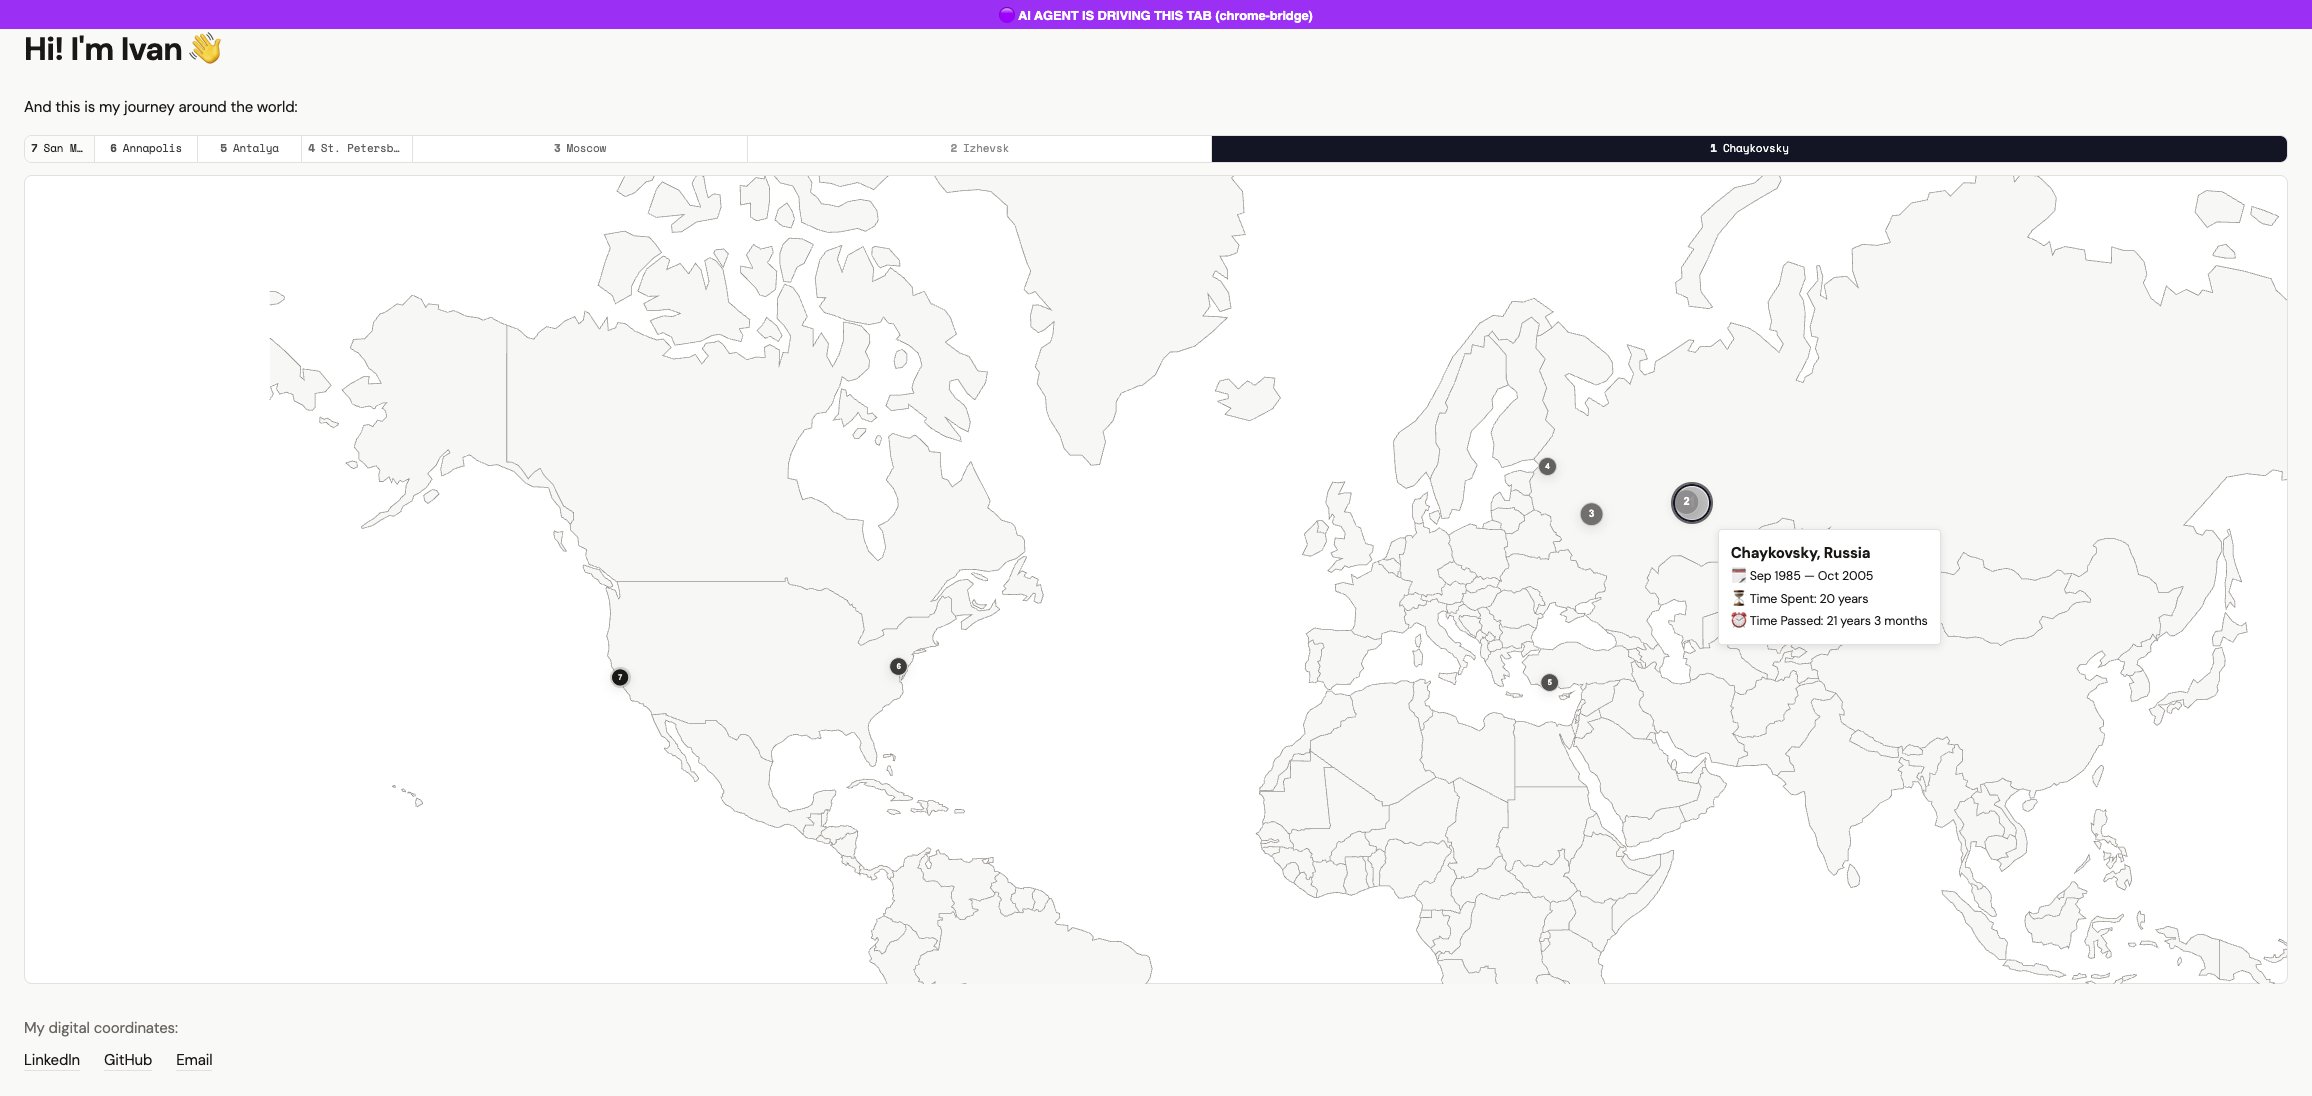
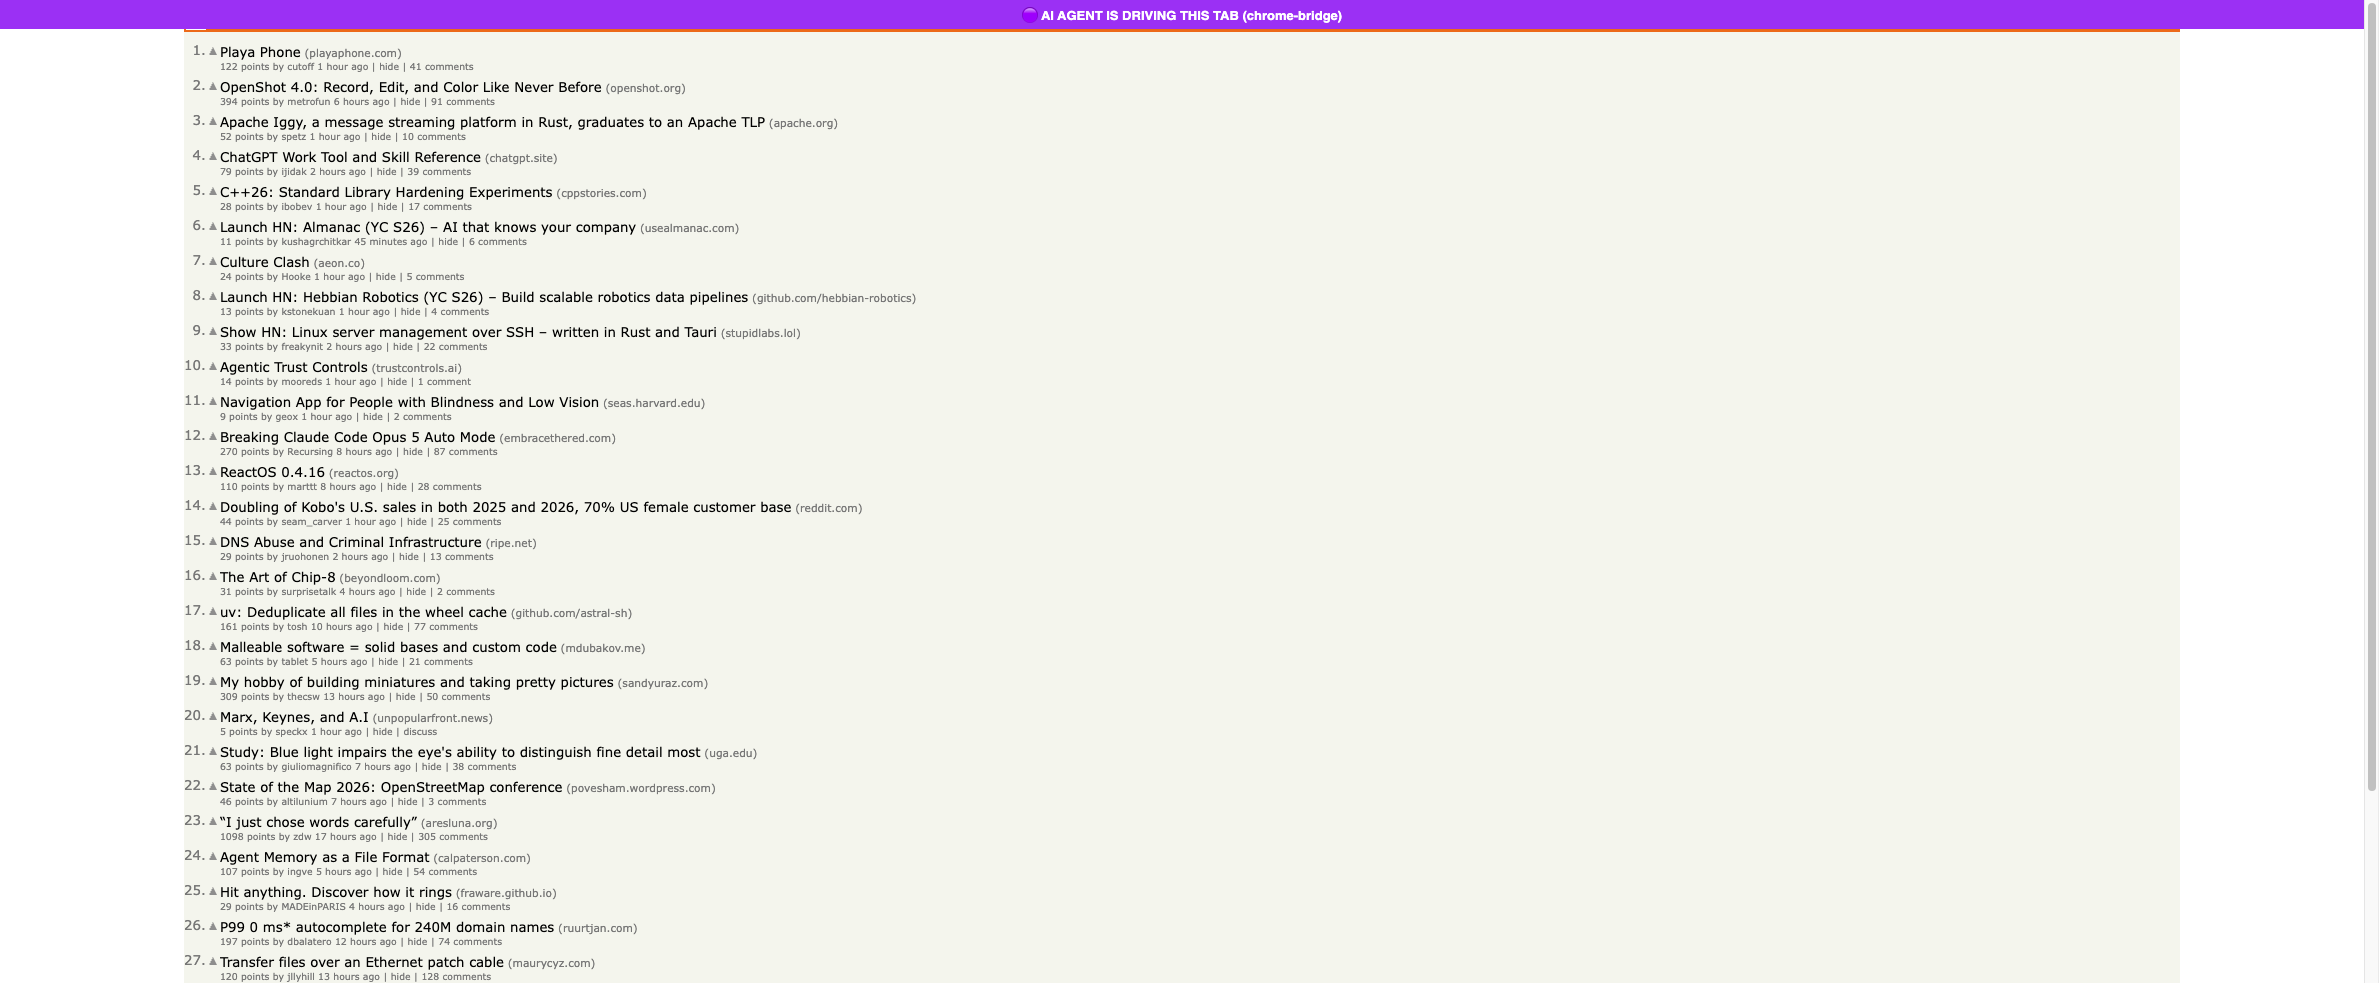
README: retake screenshots on Hacker News (neutral demo target)

diff --git a/README.md b/README.md
@@ -17,13 +17,14 @@ node cli.mjs shot localhost:8082 out.png --scale 0.5 --format jpeg
 A `snap` looks like this — the whole page as a compact text tree with refs you act on:
 
 ```
-banner "Hi! I'm Ivan 👋" @e1
-  heading "Hi! I'm Ivan 👋" @e2
-main "And this is my journey around the world: …" @e3
-  button "Moscow, Russia. From Apr 2014 to May 2020 (6 years 1 month)" @e14
-  button "St. Petersburg, Russia. From May 2020 to Mar 2022 …" @e15
-contentinfo "My digital coordinates: LinkedIn GitHub Email" @e19
-  link "GitHub" @e24 https://github.com/siropkin
+table "Hacker News new | past | comments | ask | show | jobs | submit" @e1
+  link "Hacker News" @e5 https://news.ycombinator.com/news
+  link "new" @e6 https://news.ycombinator.com/newest
+  link "submit" @e12 https://news.ycombinator.com/submit
+  link "login" @e13 https://news.ycombinator.com/login?goto=news
+table "1. Playa Phone (playaphone.com) 122 points by cutoff 1 hour…" @e14
+  link "Playa Phone" @e16 https://playaphone.com/
+  link "41 comments" @e21 https://news.ycombinator.com/item?id=49510514
 ```
 
 ## Why not Playwright (or playwright-mcp)?
